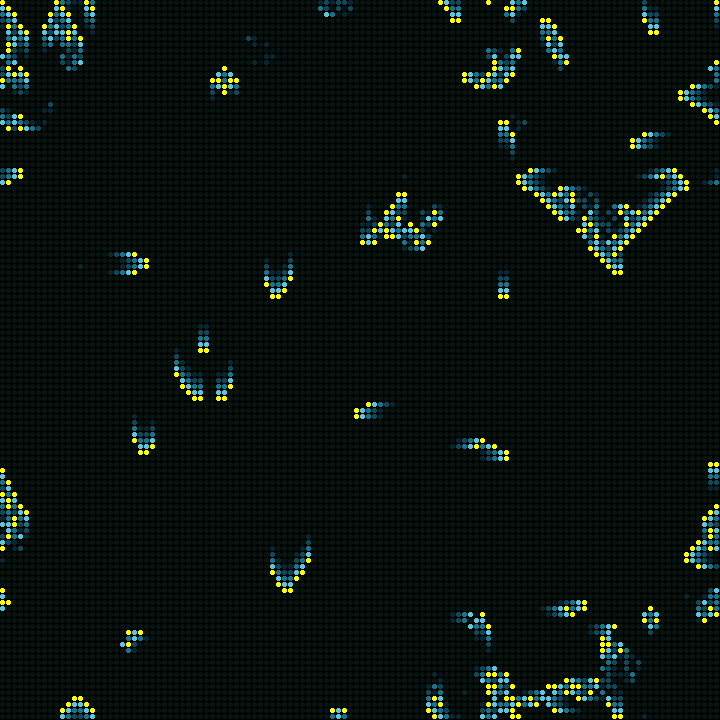
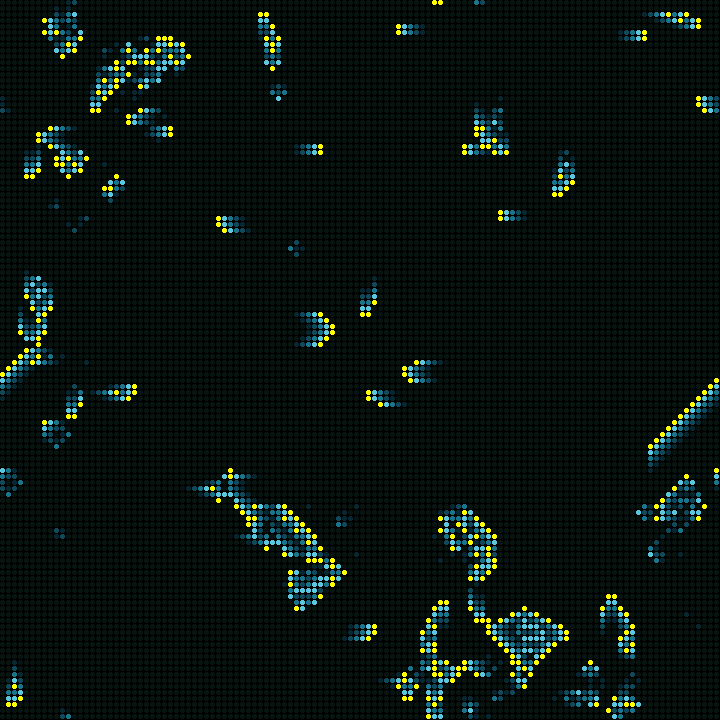
screensaver

diff --git a/src/automata_core.c b/src/automata_core.c
@@ -10,8 +10,9 @@
 
 #define RANGE_MAX       3                     /**< a neighbourhood's range at most */
 #define NB_MAX          ((2 * RANGE_MAX + 1) * (2 * RANGE_MAX + 1) - 1)   /**< neighbours at most */
-#define FOREST_GROW     200                   /**< ground grows a tree one generation in this */
-#define FOREST_STRIKE   40000                 /**< a tree is struck by lightning one generation in this */
+#define FOREST_GROW     50                    /**< ground grows a tree one generation in this */
+#define FOREST_STRIKE   200000                /**< a tree is struck by lightning one generation in this */
+#define EXCITE_SPARK    30000                 /**< a resting cell of the excitable medium sparks one generation in this */
 
 /** @brief A rule. */
 typedef struct {
@@ -38,7 +39,7 @@ static const rule_t RULES[AUTO_R_COUNT] = {
     [AUTO_R_ANT] = {"Langton's ant  RL", AUTO_TURMITE, 2, 0, 0, 0, 0, 0, 0, 40, 60000, false, 0, "RL", 24},
     [AUTO_R_CYCLIC] = {"Cyclic spirals  R3/T5/C8", AUTO_CYCLIC, 8, 3, 5, 0, 0, 0, 0, 100, 900, false, 0, NULL, 0},
     [AUTO_R_RPS] = {"Rock, paper, scissors  R1/T3/C3", AUTO_CYCLIC, 3, 1, 3, 0, 0, 0, 0, 100, 900, false, 0, NULL, 0},
-    [AUTO_R_EXCITABLE] = {"Excitable medium", AUTO_EXCITABLE, 10, 1, 1, 0, 0, 0, 0, 100, 900, false, 0, NULL, 0},
+    [AUTO_R_EXCITABLE] = {"Excitable medium", AUTO_EXCITABLE, 12, 1, 1, 0, 0, 1, 0, 100, 900, false, 0, NULL, 0},
     [AUTO_R_DAY_NIGHT] = {"Day & Night  B3678/S34678", AUTO_GENERATIONS, 2, 1, 0, 0x01C8, 0x01D8, 50, 0, 100, 900, false, 0, NULL, 0},
     [AUTO_R_SEEDS] = {"Seeds  B2/S", AUTO_GENERATIONS, 2, 1, 0, 0x0004, 0x0000, 40, 8, 100, 900, false, 0, NULL, 0},
     [AUTO_R_MAZE] = {"Maze  B3/S12345", AUTO_GENERATIONS, 2, 1, 0, 0x0008, 0x003E, 35, 16, 100, 900, false, 0, NULL, 0},
@@ -265,7 +266,7 @@ static uint8_t next_state(int x, int y)
         if (st) {
             return (uint8_t)((st + 1) % r->states);
         }
-        return count(x, y, 1) >= r->threshold ? 1 : 0;
+        return count(x, y, 1) >= r->threshold || rnd() % EXCITE_SPARK == 0 ? 1 : 0;   /* (or a spark) */
     case AUTO_FOREST:
         if (st == 2) {
             return 0;                               /* burnt out */

diff --git a/src/automata_core.h b/src/automata_core.h
@@ -25,7 +25,8 @@ extern "C" {
  *        - Cyclic rules: a cell in state s moves on to s+1 (mod states) when at least a threshold of its
  *          neighbours within a range are in s+1; random noise turns into spirals.
  *        - An excitable medium (Greenberg-Hastings): a resting cell (0) is excited (1) when enough
- *          neighbours are; an excited one goes through refractory states back to rest.
+ *          neighbours are, or now and then by itself (a spark); an excited one goes through refractory
+ *          states back to rest. Each spark sends out a ring; rings meet and annihilate.
  *        - Forest fire: trees grow on empty ground at random, lightning strikes now and then, fire spreads
  *          to the trees next to it, and burnt ground is empty again.
  *        - Langton's ant: an ant on the board turns by the state of its cell (a letter of the rule, L or

diff --git a/docs/features-settings.md b/docs/features-settings.md
@@ -17,6 +17,10 @@ The home screen, Settings and its tabs, how the board looks and sounds, Gibberli
 | ![The Lissajous screen saver](screenshots/saver-lissajous.png) | ![The double pendulum screen saver](screenshots/saver-pendulum.png) | ![The Langton's ant screen saver](screenshots/saver-ant.png) |
 | **Screen saver: Brian's Brain** | | |
 | ![The Brian's Brain screen saver](screenshots/saver-brain.png) | | |
+| **Screen saver: Cyclic spirals** | **Screen saver: Rock paper scissors** | **Screen saver: Excitable medium** |
+| ![The cyclic spirals screen saver](screenshots/saver-cyclic.png) | ![The rock paper scissors screen saver](screenshots/saver-rps.png) | ![The excitable medium screen saver](screenshots/saver-excitable.png) |
+| **Screen saver: Forest fire** | | |
+| ![The forest fire screen saver](screenshots/saver-forest.png) | | |
 
 ## Features
 
@@ -41,12 +45,12 @@ The home screen, Settings and its tabs, how the board looks and sounds, Gibberli
   - The other cellular automata, each its own choice, on the same 120 × 120 grid of dots, 10 generations a second, each starting again from a new random start after 900 generations (90 seconds), or sooner if it dies out:
     - **Cyclic spirals** (8 states; a cell moves on to the next state when at least 5 of the 48 cells within 3 of it are already there): random noise organises itself into big turning spirals, in a wheel of colours.
     - **Rock paper scissors** (3 states; 3 of the 8 neighbours beat a cell): turbulent spiral waves of three colours chasing each other.
-    - **Excitable medium** (Greenberg-Hastings: a resting cell is excited by an excited neighbour, then goes through 8 refractory states back to rest): yellow wavefronts with a tail from gold to deep blue, and spirals.
+    - **Excitable medium** (Greenberg-Hastings: a resting cell is excited by an excited neighbour, or now and then by itself, a spark; then it goes through 10 refractory states back to rest): each spark sends out a yellow ring with a tail from gold through red, pink and purple to deep blue; rings meet and annihilate, like ripples from raindrops.
     - **Day & Night** (B3678/S34678): blobs of day and night that grow, merge and dissolve.
     - **Seeds** (B2/S: every live cell dies at once): it explodes from a small square in the middle into ever-spreading chaos.
     - **Maze** (B3/S12345): a maze grows out of a small square in the middle.
     - **Star Wars** (Generations S345/B2/C4): busy little ships with tails.
-    - **Forest fire** (trees grow at random on bare ground, lightning strikes now and then, fire spreads to the trees next to it): green forest, waves of yellow fire, red embers.
+    - **Forest fire** (trees grow back quickly on bare ground, lightning strikes rarely, fire spreads to the trees next to it): a dense green forest, a ring of yellow fire spreading out from each strike, red embers behind it.
 
     Life-like ones are blue with yellow newborns and dead cells fading through deep blue. Game of Life, Brian's Brain, Langton's ant and these all run on one engine (`automata_core.c`).
 - **Lock screen**: **Settings → Display → Lock screen** (Off, Swipe or PIN). The lock button on the home screen (left of the power button) locks at once: the screen goes dark and comes back locked at the next tap (with the setting Off, it locks with a swipe). When the setting is on, the screen also comes back from its timeout locked: a lock icon, the time, the date and who is playing, and either "Swipe up to unlock" (the time follows the finger; swipe far enough) or a 4-digit PIN on a keypad. Choosing PIN asks for the PIN twice; **Lock PIN → Change** sets a new one. After 5 wrong PINs the keypad waits 30 seconds. It is meant to keep little fingers out of a game, not to secure anything: the PIN is kept as plain text in `sudoku.db` (`settings.lock_pin`, with `lock_mode` 0 Off, 1 Swipe, 2 PIN), and pressing **RESET** starts the board unlocked (the lock only comes with a timeout), which is also the way back in with a forgotten PIN.
